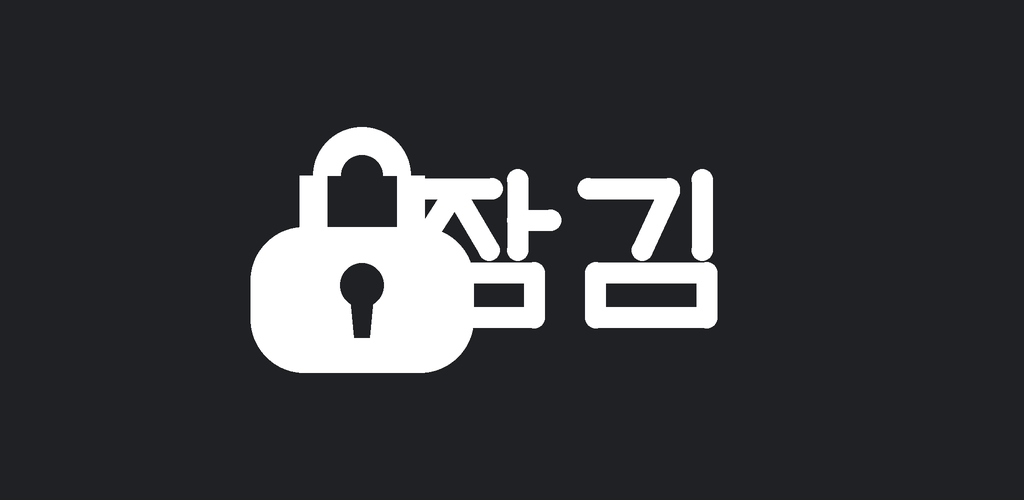
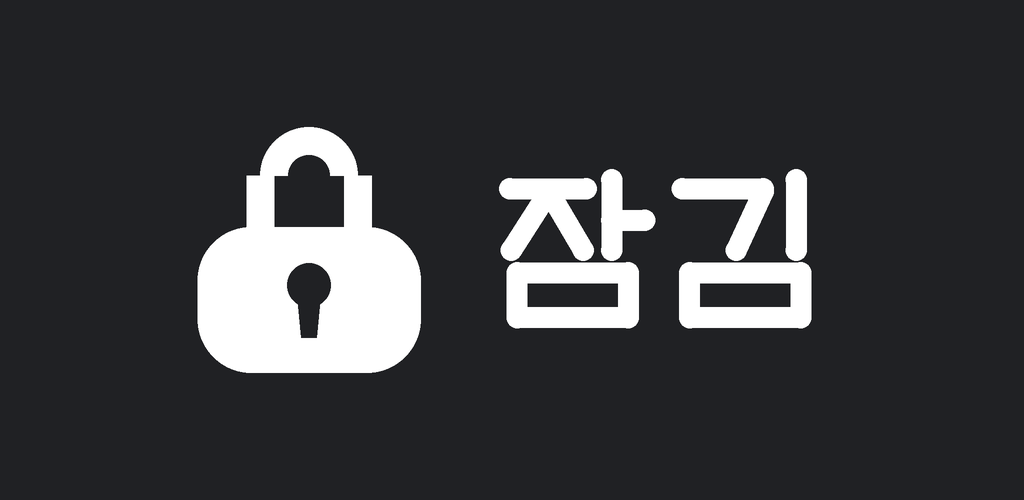
스토어 자료 — 대표 그래픽 겹침과 사실과 어긋난 문구
대표 그래픽에서 자물쇠와 '잠' 글자가 겹쳐 뭉개져 있었다. 자물쇠 자리를 W*0.245,
글자 자리를 W*0.40 으로 각각 비율로 박아 두고 자물쇠가 실제로 얼마나 넓은지
재지 않은 탓이다. 아이콘에서 좌표를 눈대중으로 잡았다가 당한 것과 같은 실수다.

이제 자물쇠를 먼저 그려 잉크가 닿은 넓이를 재고, 그 뒤에 사이를 두고 글자를 놓은
다음 둘을 묶어 가운데 맞춘다.

제품소개의 '홍보에 쓰면 안 됨' 목록에 이제는 사실인 것 둘이 남아 있었다.
'다국어 — 아직 한국어뿐이다' 와 '글꼴 200% — 기기에서 확인하지 않았다'. 둘 다
됐는데도 못 쓰게 막아 두고 있었다. 우리가 우리 발목을 잡던 셈이다. 목록에서
빼고 언제 무엇이 되었는지 적었다. 대신 '일본어·러시아어의 말투는 원어민 확인을
안 받았다' 를 새로 넣었다 — 그건 아직 사실이다.

스토어 등록 문구 초안에 4개 언어와 어두운 모드를 넣었다.

가격 문서의 해외 출시 장이 '앱이 한국어뿐이라 팔면 안 된다' 를 근거로 삼고
있었다. 이제 아니다. 단계를 나누는 진짜 이유는 스토어에 적는 소개가 그 나라
말로 없다는 것이라, 그렇게 고쳐 적었다.

완료기준의 아이콘 항목을 손보면서 '기기에서 확인했다' 고 적었다가 되돌렸다.
사용자가 확인한 것은 설정 화면이고 홈 화면의 아이콘은 따로 본 적이 없다.

Claude-Session: https://claude.ai/code/session_012vGEMjAHysnJ3b1U1CVJcU

Changed region(s): [[0.1875, 0.24, 0.8125, 0.75], [0.2812, 0.51, 0.375, 0.69]]

diff --git a/tools/logo/make_assets.py b/tools/logo/make_assets.py
@@ -85,18 +85,40 @@ def app_mark(size=192):
 
 
 def store_graphic(w=1024, h=500):
-    """구글 플레이 대표 그래픽. 자물쇠와 이름을 가로로 놓는다."""
+    """
+    구글 플레이 대표 그래픽. 자물쇠와 이름을 가로로 놓는다.
+
+    **자리를 비율로 박지 않는다.** 예전에는 자물쇠를 `W*0.245`, 글자를 `W*0.40` 에
+    두었는데, 자물쇠가 실제로 얼마나 넓은지 재지 않아서 글자 시작점이 자물쇠
+    오른쪽 끝보다 앞에 왔다. 둘이 겹쳐 뭉개졌다.
+
+    이제 자물쇠를 먼저 그려 **잉크가 닿은 넓이를 재고**, 그 뒤에 사이를 두고
+    글자를 놓는다. 그리고 둘을 묶어 가운데 맞춘다. 아이콘에서 `fit()` 을 만든
+    것과 같은 이유다 — 눈대중한 좌표는 그림이 바뀌는 순간 어긋난다.
+    """
     W, H = w * 2, h * 2
     img = Image.new("RGB", (W, H), INK)
-    d = ImageDraw.Draw(img)
+
+    # 자물쇠를 따로 그려 실제 크기를 잰다.
     lock = Image.new("RGBA", (int(H * 0.72), int(H * 0.72)), (0, 0, 0, 0))
-    ld = ImageDraw.Draw(lock)
     LS = lock.size[0]
-    padlock(ld, LS / 2, 0.12 * LS, 0.62 * LS, 0.72 * LS, WHITE, INK)
+    padlock(ImageDraw.Draw(lock), LS / 2, 0.12 * LS, 0.62 * LS, 0.72 * LS, WHITE, INK)
     lock = lock.crop(lock.getbbox())
-    img.paste(lock, (int(W * 0.245), (H - lock.height) // 2), lock)
-    gw = H * 0.30
-    draw_wordmark(img, W * 0.40, (H - gw) / 2, gw, H * 0.045, WHITE, stroke=0.14)
+
+    # 글자 넓이. draw_wordmark 는 '잠' 을 x 에, '김' 을 x + size + gap 에 그린다.
+    glyph = H * 0.30
+    gap = H * 0.045
+    word_w = glyph * 2 + gap
+
+    # 자물쇠와 글자 사이. 글자 하나의 절반쯤 띄우면 붙어 보이지 않는다.
+    between = glyph * 0.55
+
+    total = lock.width + between + word_w
+    left = (W - total) / 2
+
+    img.paste(lock, (int(left), (H - lock.height) // 2), lock)
+    draw_wordmark(img, left + lock.width + between, (H - glyph) / 2, glyph, gap,
+                  WHITE, stroke=0.14)
     return img.resize((w, h), Image.LANCZOS)
 
 

diff --git a/docs/가격.md b/docs/가격.md
@@ -207,26 +207,26 @@
 
 여기서부터는 세무 영역이라 세무사와 상의한다.
 
-### 그런데 지금 해외에 팔면 안 된다
+### 어디부터 열 것인가
 
-**앱이 한국어뿐이다.** 미국 사람이 사면 아무것도 못 읽는다. 환불받고 별 하나를
-남긴다. **별점은 한 번 떨어지면 회복이 오래 걸린다.** 5,500원 몇 건 벌자고
-치를 값이 아니다.
+앱은 네 언어로 뜬다 (한국어·영어·일본어·러시아어). 그래도 한꺼번에 다 열지는
+않는다. **스토어에 적는 글은 앱 안 문장과 별개**라, 그 나라 말로 된 소개가 없으면
+찾지도 못하고 찾아도 안 산다.
 
 | 단계 | 어디에 | 언제 |
 |---|---|---|
 | 1 | **한국만** | 지금 |
 | 2 | + 미국·캐나다·일본·호주·뉴질랜드 | 지금 해도 된다 |
-| 3 | 전 세계 | **영어·일본어판이 들어갔다 (2026-09-03).** 실기기 확인 뒤 |
+| 3 | 전 세계 | 스토어 소개를 그 언어로 쓴 뒤 |
 
 2단계가 지금 해도 되는 이유가 있다. **스토어 설명이 한국어라 한국어로 검색하는
 사람에게만 보인다.** 저 나라들에서 한국어로 비밀번호 앱을 찾는 사람은 교포이거나
 이주민이고, 그분들이 바로 이 앱의 대상이다 — `docs/국제화.md` 에 "폰은 영어인데
 앱은 모국어로 보고 싶은 사람" 이라고 적어 둔 그분들이다. 앱은 이미 그것을 한다.
 
-3단계는 이제 앱 쪽 준비가 끝났다. 영어·일본어 폰에서 열면 그 말로 뜨고, 설정에
-"언어" 항목도 나온다 (`docs/국제화.md` 5-2). 남은 것은 **스토어 설명의 영어·일본어판**
-과 실기기 확인이다 — 스토어에 적는 글은 앱 안 문장과 별개다.
+3단계는 **앱 쪽 준비가 끝났다.** 영어·일본어·러시아어 폰에서 열면 그 말로 뜨고,
+설정에 "언어" 항목도 나온다 (`docs/국제화.md` 5-2). 실기기에서도 확인했다.
+남은 것은 **스토어 소개를 그 언어로 쓰는 것**뿐이다.
 
 일본은 한 가지 더 있다. **일본어 번역이 원어민 확인을 받지 않았다.** 일본 스토어에
 내기 전에 일본어를 쓰는 사람에게 읽혀야 한다. 2단계(교포 대상)에서 일본을 여는 것은

diff --git a/docs/제품소개.md b/docs/제품소개.md
@@ -250,10 +250,19 @@
 ## 9. 아직 아닌 것 — 홍보에 쓰면 안 됨
 
 - **iOS** — 코드는 있으나 기기에서 확인하지 않았다. "아이폰도 됩니다"라고 쓰지 않는다.
-- **다국어** — 준비만 해 두었다 (`docs/국제화.md`). 아직 한국어뿐이다.
 - **자동 채우기(오토필)** — 없다. MVP 에서 일부러 뺐다.
 - **성능 수치** — 5장의 "재지 않았다" 항목을 숫자로 쓰지 않는다.
-- **글꼴 200% 확대** — 코드는 그렇게 짰지만 기기에서 확인하지 않았다.
+- **일본어·러시아어의 말투** — 문장은 넣었지만 원어민 확인을 받지 않았다.
+  일본·러시아 스토어에 그 말로 된 소개를 올리기 전에 확인받는다.
+
+### 이제는 써도 되는 것 (2026-09-06)
+
+한동안 이 목록에 있었지만 실제로 되어서 뺐다. **우리가 우리 발목을 잡고 있었다.**
+
+| | |
+|---|---|
+| **4개 언어** | 한국어·영어·일본어·러시아어. 폰 언어를 따라가고 설정에서 고를 수도 있다 |
+| **글꼴 200% 확대** | 실기기에서 확인했다 (`docs/완료기준.md`) |
 
 ---
 
@@ -278,6 +287,10 @@
 ■ 크고 쉽게 만들었습니다
 글씨가 큽니다. 버튼이 큽니다. 어려운 말을 쓰지 않습니다.
 글꼴을 키워 쓰셔도 화면이 깨지지 않습니다.
+밤에 눈이 덜 부시도록 어둡게 쓸 수 있습니다.
+
+■ 한국어 · English · 日本語 · Русский
+폰에 설정된 언어로 뜹니다. 앱에서 직접 고르실 수도 있습니다.
 
 ■ 여는 방법 세 가지
 PIN(핀) · 지문과 얼굴 · 복구 코드

diff --git a/docs/완료기준.md b/docs/완료기준.md
@@ -146,7 +146,11 @@
         (쓸 수 있는 한글 글꼴이 GPL 중국어 글꼴뿐이라 파는 앱 로고에 넣기 곤란했다).
         만드는 법과 크기 규칙은 `tools/logo/README.md`.
       → 적응형 아이콘은 동그라미·둥근 네모·네모·물방울 네 가지로 깎아 보고 확인했다.
-      → **기기에서 실제로 어떻게 보이는지는 아직 확인하지 않았다.**
+      → **기기에서 아이콘이 어떻게 보이는지는 아직 확인하지 않았다.** 앱은 여러 번
+        깔아 봤지만 홈 화면·앱 서랍에서 `잠김` 이 읽히는지를 따로 본 적이 없다.
+      → 스토어 대표 그래픽은 자물쇠와 `잠` 글자가 **겹쳐 있던 것을 고쳤다** (2026-09-06).
+        자리를 비율로 박아 두고 자물쇠가 실제로 얼마나 넓은지 재지 않은 탓이었다.
+        이제 자물쇠를 그린 뒤 넓이를 재고 그 옆에 글자를 놓는다.
 - [x] 개인정보 처리방침, 스토어 데이터 안전 섹션 작성
       → `docs/개인정보처리방침.md`, `docs/스토어-데이터-안전.md`
         (문의 이메일 주소는 비워 두었다. 등록 전에 채운다.)
